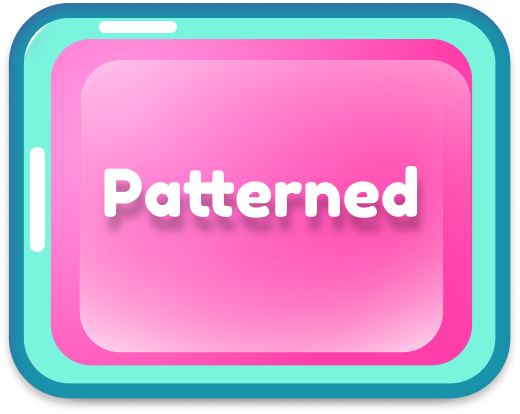
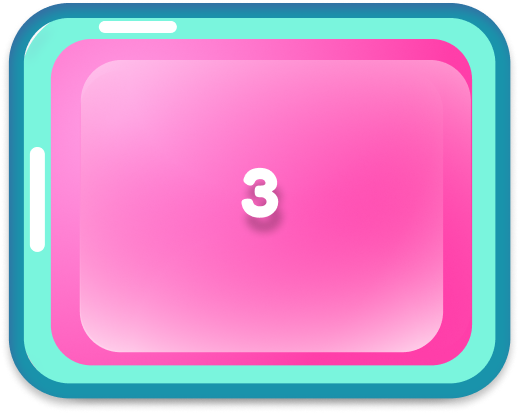
better layout

Changed region(s): [[0.1846, 0.4058, 0.8308, 0.5797]]

diff --git a/src/takephoto.js b/src/takephoto.js
@@ -304,7 +304,7 @@ document.addEventListener("DOMContentLoaded", () => {
 // LAYOUT SETTINGS
 // =======================
 const selectedLayout = localStorage.getItem("selectedLayout");
-const layoutCount = { layout2: 2, layout3: 3, layout6: 6 };
+const layoutCount = { layout2: 2, layout3: 3, layout4: 4 };
 const neededPhotos = layoutCount[selectedLayout] || 1;
 let isTakingPhotos = false;
 
@@ -389,13 +389,14 @@ async function generateFinalLayout() {
       finalCanvas.height = layoutImg.height;
 
       // 2. Gambar background layoutnya dulu
-      ctx3.drawImage(layoutImg, 0, 0);
 
       // 3. Ambil semua foto dari array dan ubah jadi elemen Image
       const loadedPhotos = await Promise.all(photos.map((p) => makeImg(p)));
 
       // 4. Tempelkan foto-foto tersebut ke atas layout
       placePhotos(ctx3, selectedLayout, loadedPhotos);
+
+      ctx3.drawImage(layoutImg, 0, 0);
 
       // 5. SELESAI! Simpan hasilnya
       finalImageData = finalCanvas.toDataURL("image/png");
@@ -442,32 +443,51 @@ function downloadFinalImage() {
 
 function placePhotos(ctx, layout, loadedPhotos) {
   if (layout === "layout2") {
-    ctx.drawImage(loadedPhotos[0], 100, 300, 600, 800); // x, y, width, height
-    ctx.drawImage(loadedPhotos[1], 100, 1150, 600, 800);
+    const H = 1200;
+
+    const img1 = loadedPhotos[0];
+    const W1 = H * (img1.width / img1.height);
+    ctx.drawImage(img1, 50, 100, W1, H);
+
+    const img2 = loadedPhotos[1];
+    const W2 = H * (img2.width / img2.height);
+    ctx.drawImage(img2, 50, 1300, W2, H);
   }
 
   if (layout === "layout3") {
-    ctx.drawImage(loadedPhotos[0], 100, 300, 600, 800);
-    ctx.drawImage(loadedPhotos[1], 100, 1150, 600, 800);
-    ctx.drawImage(loadedPhotos[2], 750, 700, 600, 800);
+    const H = 870;
+
+    const img1 = loadedPhotos[0];
+    const W1 = H * (img1.width / img1.height);
+    ctx.drawImage(img1, 50, 100, W1, H);
+
+    const img2 = loadedPhotos[1];
+    const W2 = H * (img2.width / img2.height);
+    ctx.drawImage(img2, 50, 970, W2, H); //
+
+    const img3 = loadedPhotos[2];
+    const W3 = H * (img3.width / img3.height);
+    ctx.drawImage(img3, 50, 1820, W3, H);
   }
 
-  if (layout === "layout6") {
-    const W = 350,
-      H = 450;
-    const x1 = 200,
-      x2 = 600;
-    const startY = 250,
-      gap = 500;
+  if (layout === "layout4") {
+    const H = 670;
 
-    ctx.drawImage(loadedPhotos[0], x1, startY, W, H);
-    ctx.drawImage(loadedPhotos[1], x2, startY, W, H);
+    const img1 = loadedPhotos[0];
+    const W1 = H * (img1.width / img1.height);
+    ctx.drawImage(img1, 50, 100, W1, H);
 
-    ctx.drawImage(loadedPhotos[2], x1, startY + gap, W, H);
-    ctx.drawImage(loadedPhotos[3], x2, startY + gap, W, H);
+    const img2 = loadedPhotos[1];
+    const W2 = H * (img2.width / img2.height);
+    ctx.drawImage(img2, 50, 770, W2, H); //
 
-    ctx.drawImage(loadedPhotos[4], x1, startY + 2 * gap, W, H);
-    ctx.drawImage(loadedPhotos[5], x2, startY + 2 * gap, W, H);
+    const img3 = loadedPhotos[2];
+    const W3 = H * (img3.width / img3.height);
+    ctx.drawImage(img3, 50, 1340, W3, H);
+
+    const img4 = loadedPhotos[3];
+    const W4 = H * (img4.width / img4.height);
+    ctx.drawImage(img4, 50, 2010, W4, H);
   }
 }
 

diff --git a/index4.html b/index4.html
@@ -63,6 +63,13 @@
           style="position: relative; width: 300px; left: -250px"
         >
           <img src="./src/assets/framesticker.png" />
+          <!-- FRAME CONTAINER -->
+          <div class="frame-list">
+            <img src="./src/assets/frames/frame1.png" class="frame-option" />
+            <img src="./src/assets/frames/frame2.png" class="frame-option" />
+            <img src="./src/assets/frames/frame3.png" class="frame-option" />
+          </div>
+
           <img
             src="./src/assets/STICKERS.png"
             style="width: 180px; left: -20px; top: 30px; position: absolute"

diff --git a/src/style.css b/src/style.css
@@ -430,3 +430,34 @@ canvas {
   height: auto;
   cursor: grab;
 }
+
+.frame-list {
+  position: absolute;
+  top: 90px;        /* SESUAIIN sama bolongan framesticker */
+  left: 40px;
+  width: 220px;
+  height: 320px;
+
+  display: grid;
+  grid-template-columns: repeat(2, 1fr);
+  gap: 10px;
+
+  overflow-y: auto;
+}
+
+.frame-option {
+  width: 100%;
+  cursor: pointer;
+  border-radius: 6px;
+  border: 2px solid transparent;
+  transition: 0.2s;
+}
+
+.frame-option:hover {
+  transform: scale(1.05);
+}
+
+.frame-option.selected {
+  border-color: #d946ef; /* pink-ish */
+}
+

diff --git a/index.html b/index.html
@@ -82,7 +82,7 @@
         <img
           src="./src/assets/funbutton.png"
           class="funbutton"
-          data-layout="layout6"
+          data-layout="layout4"
           data-url="index2.html"
         />
       </div>
